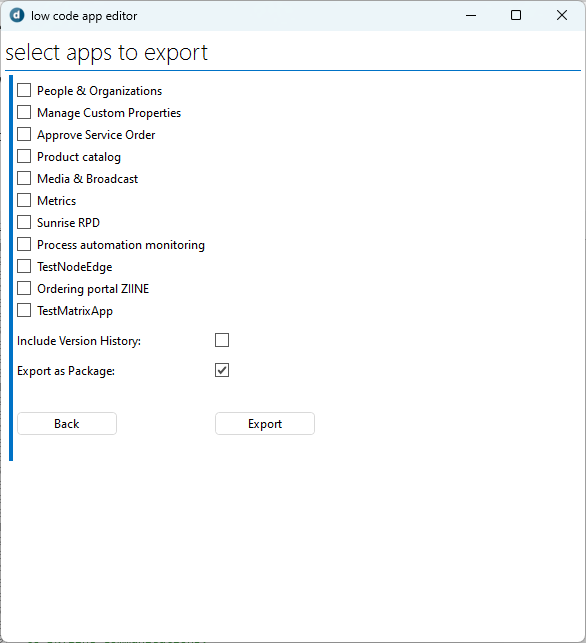
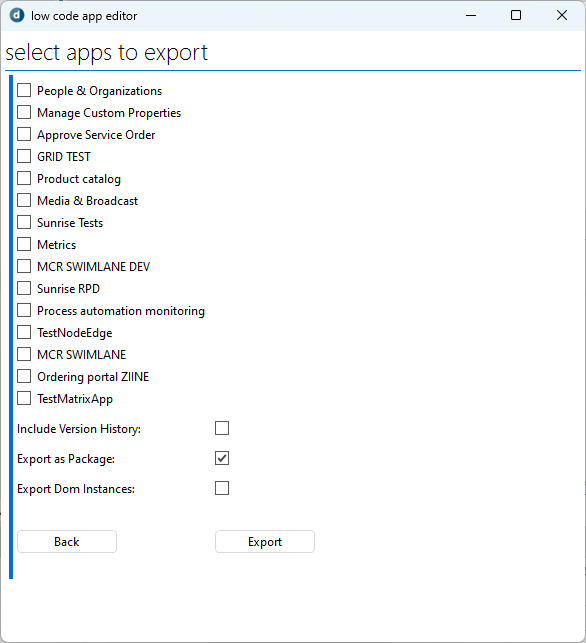
Export readme update

diff --git a/README.md b/README.md
@@ -49,7 +49,10 @@ You can edit some general information about the low code app.
 ![Editor](Documentation/EditorDialog.png)
 
 ### Export
-There's the option to export apps. It is highly recommended enable the option to export as a package, as this will try and collect all the used custom operator and action script and include them in the package.
+There's the option to export apps. It is highly recommended enable the option to export as a package, as this will try and collect all the used custom operator and action script and include them in the package. As of version 1.0.0.5 it now searching through the GQI queries and looks for used dom modules and includes them in the package as well. From version 1.0.0.6 it's possible to include dom instances in the package as well by enabling the option.
+
+> [!NOTE]  
+> When exporting an app from one dma to another make sure the versions match. For example the GQI versions.
 
 ![Editor](Documentation/ExportDialog.png)
 
